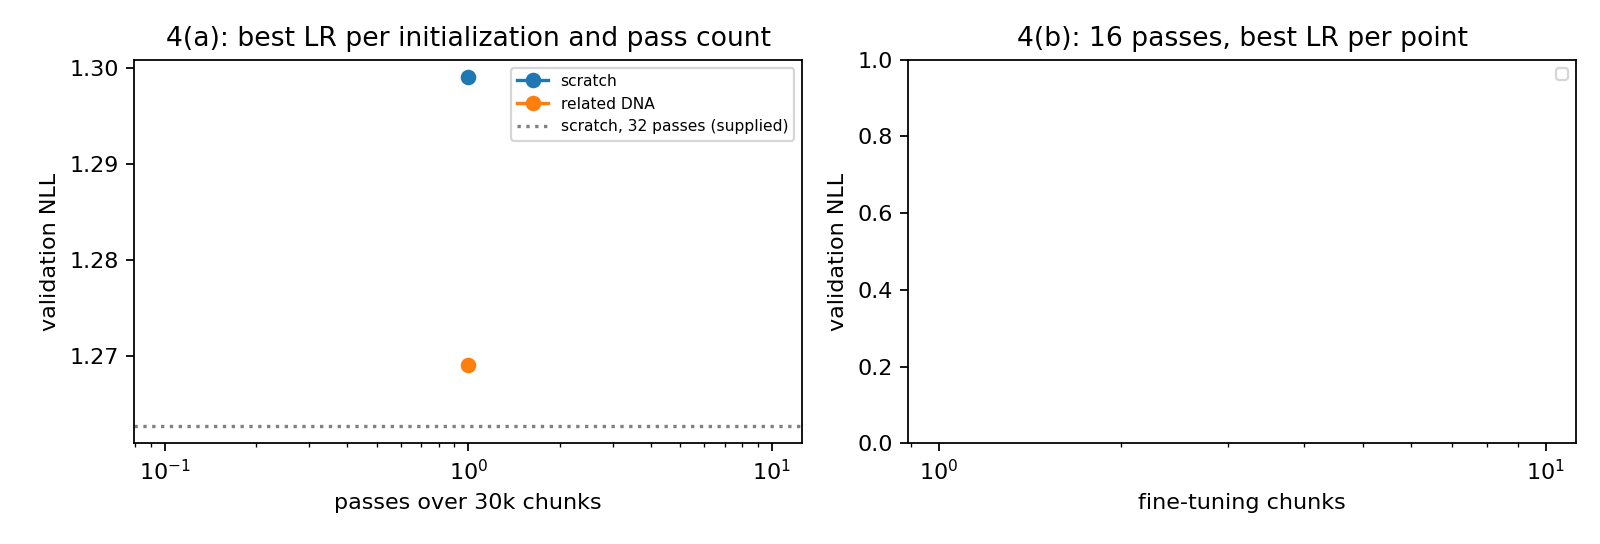
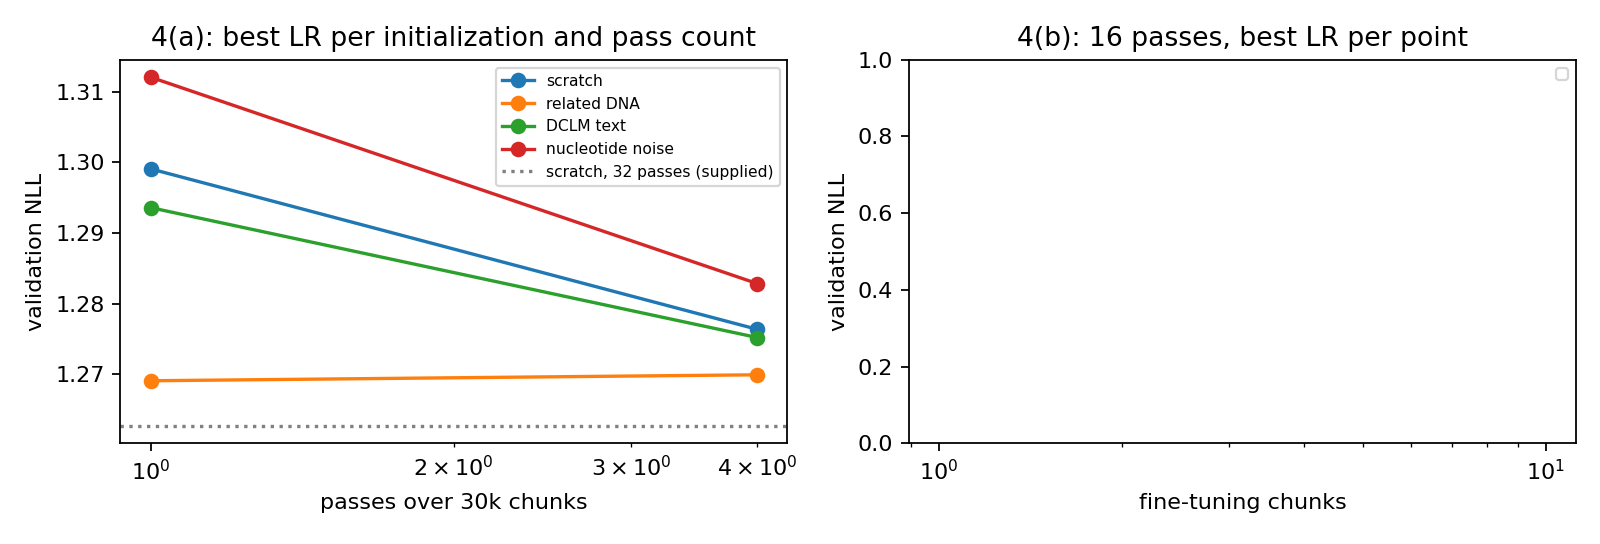
A6: Hyperball and P4(a) findings from first finished runs

diff --git a/experiments/a6_generalization/latex/p4_text_a.tex b/experiments/a6_generalization/latex/p4_text_a.tex
@@ -1,1 +1,11 @@
-% written by hand
+\subsection*{Part (a). Initialization against training length}
+
+\lead{Setup.} Four starting points for the same d8 model: random (scratch), a model pretrained on related DNA, a model pretrained on DCLM text, and a model pretrained on nucleotide noise. Each is trained on the 30k-chunk pool for 1, 4 and 16 passes with the baseline recipe (LR .003, WD 3.2, warmup + linear decay to zero at the end of the run), plus lower LRs (.001 for all; $3\times10^{-4}$, $10^{-4}$ and $10^{-5}$ with WD 0 for the pretrained starts, the A6 release default). Table~\ref{tab:p4a} reports the best LR per cell.
+
+\lead{Findings.}
+\begin{itemize}
+\item Pretraining on related DNA is worth most when data passes are scarce: after one pass it reaches 1.269, against 1.299 from scratch, 1.294 from DCLM and 1.312 from noise. One pass from the related start already matches the supplied 32-pass baseline to within 0.007.
+\item The gap closes fast. After four passes scratch is at 1.276 and related at 1.270; DCLM (1.275) is indistinguishable from scratch and noise (1.283) is still behind.
+\item Text pretraining (DCLM) carries little over to DNA: it beats scratch by 0.005 at one pass and by nothing at four. Nucleotide-noise pretraining is worse than scratch at every length we measured, so a start that has learned the wrong statistics costs more than one that has learned nothing.
+\item The related start does not improve from one to four passes (1.269 to 1.270): with a strong initialization the model is already near its data-limited floor and extra epochs mostly re-fit the same 30k chunks.
+\end{itemize}

diff --git a/experiments/a6_generalization/latex/p4.tex b/experiments/a6_generalization/latex/p4.tex
@@ -2,10 +2,10 @@
 \begin{figure}[H]\centering\includegraphics[width=.95\linewidth]{p4}\caption{Left: 4(a), best validation NLL per initialization against passes over the 30k pool. Right: 4(b), 16 passes against fine-tuning pool size, log axis.}\label{fig:p4}\end{figure}
 \begin{table}[H]\centering\small\caption{Problem 4(a): best validation NLL per initialization and pass count on 30k chunks; parentheses give the selected LR (and WD 0 where used). LRs tried: .003/WD 3.2 and .001/WD 3.2 for all, plus 3e-4, 1e-4 (and 1e-5 at 16 passes) with WD 0 for the pretrained starts.}\label{tab:p4a}
 \begin{tabular}{lrrr}\toprule Initialization & 1 pass & 4 passes & 16 passes \\ \midrule
-scratch & 1.2991 (0.003) & -- & -- \\
-related DNA & 1.2691 (0.003) & -- & -- \\
-DCLM text & -- & -- & -- \\
-nucleotide noise & -- & -- & -- \\
+scratch & 1.2991 (0.003) & 1.2764 (0.003) & -- \\
+related DNA & 1.2691 (0.003) & 1.2699 (0.003) & -- \\
+DCLM text & 1.2936 (0.003) & 1.2752 (0.003) & -- \\
+nucleotide noise & 1.3121 (0.003) & 1.2829 (0.003) & -- \\
 \bottomrule\end{tabular}\end{table}
 \input{p4_text_b}
 \begin{table}[H]\centering\small\caption{Problem 4(b): 16 passes, best LR per point, with the power-law fit $L(n)=L_\infty+An^{-\alpha}$ where three or more points exist.}\label{tab:p4b}

diff --git a/experiments/a6_generalization/latex/runs_table.tex b/experiments/a6_generalization/latex/runs_table.tex
@@ -1,8 +1,16 @@
 \small Names encode the recipe: \texttt{ft-<init>-n<pool>k-p<passes>-lr<LR>[-wd<WD>][-adaptation<variant>]} for fine-tuning; everything else is a 32-pass scratch run of d8 at WD 3.2 unless the name says otherwise. All seeds are 42 (model and data order) unless named.
 
 \begin{longtable}{lrl}\toprule Run & $L$ & state \\ \midrule
-\texttt{ft-dclm-n30k-p1-lr0.003} & -- & running (0.7 passes, 1.3003) \\
-\texttt{ft-noise-n30k-p1-lr0.003} & -- & running (0.7 passes, 1.3254) \\
+\texttt{dropout0.15} & -- & running (8.0 passes, 1.2927) \\
+\texttt{ft-dclm-n30k-p1-lr0.003} & 1.2936 & finished \\
+\texttt{ft-dclm-n30k-p4-lr0.003} & 1.2752 & finished \\
+\texttt{ft-noise-n30k-p1-lr0.003} & 1.3121 & finished \\
+\texttt{ft-noise-n30k-p4-lr0.003} & 1.2829 & finished \\
 \texttt{ft-related-n30k-p1-lr0.003} & 1.2691 & finished \\
+\texttt{ft-related-n30k-p4-lr0.003} & 1.2699 & finished \\
 \texttt{ft-scratch-n30k-p1-lr0.003} & 1.2991 & finished \\
+\texttt{ft-scratch-n30k-p4-lr0.003} & 1.2764 & finished \\
+\texttt{hyperball-lr0.001} & 1.4405 & finished \\
+\texttt{hyperball-lr0.003} & 1.5820 & finished \\
+\texttt{hyperball-lr0.01} & -- & running (10.0 passes, 1.2691) \\
 \bottomrule\end{longtable}

diff --git a/experiments/a6_generalization/latex/p2_hyperball_text.tex b/experiments/a6_generalization/latex/p2_hyperball_text.tex
@@ -1,1 +1,6 @@
-% written by hand
+\lead{Hyperball needs a large LR and still overfits.} Hyperball projects every Linear weight back to its initial Frobenius norm after each Adam step and uses WD 0, so the norm cannot grow and the only free knob is how fast the direction turns. On this 32-pass DNA task it behaves very differently from AdamW with WD 3.2:
+\begin{itemize}
+\item At LR .001 and .003 the validation NLL falls to about 1.279 by pass 6 and then climbs steadily to 1.44 and 1.58 by pass 32 (the LR .003 run, which fits faster, ends worse), the same late-epoch failure as AdamW at WD .1 (1.4057).
+\item The higher LR .01 is tracking the same curve (1.269 at pass 10). Fixing the weight norm removes the growth of the weights but not the ability to fit 30k sequences in 32 passes, so it is not a substitute for weight decay when the data are repeated this often.
+\item The best early-stopped Hyperball value (about 1.27 at 6 to 10 passes) is within 0.01 of the AdamW baseline, which says the architecture and data, not the optimizer, set the floor; the optimizer's job here is to stop the model from leaving it.
+\end{itemize}

diff --git a/experiments/a6_generalization/latex/p2_hyperball.tex b/experiments/a6_generalization/latex/p2_hyperball.tex
@@ -3,8 +3,8 @@
 \begin{tabular}{llrr}\toprule Optimizer & LR & $L$ & $\Delta L$ vs WD 3.2 \\ \midrule
 AdamW WD .1 (supplied) & -- & 1.4057 & +0.1430 \\
 AdamW WD 3.2 (supplied) & -- & 1.2627 & 0 \\
-Hyperball WD 0 & 0.001 & -- & -- \\
-Hyperball WD 0 & 0.003 & -- & -- \\
+Hyperball WD 0 & 0.001 & 1.4405 & +0.1778 \\
+Hyperball WD 0 & 0.003 & 1.5820 & +0.3193 \\
 Hyperball WD 0 & 0.01 & -- & -- \\
 \bottomrule\end{tabular}\end{table}
 \input{p2_hyperball_text}

diff --git a/experiments/a6_generalization/latex/ref_table.tex b/experiments/a6_generalization/latex/ref_table.tex
@@ -4,7 +4,7 @@ Dense d8, 32 passes (supplied) & 1.2627 \\
 Supplied suite best, d9 & 1.2594 \\
 5-member ensemble (supplied) & 1.2543 \\
 AdamW WD .1, 32 passes (supplied) & 1.4057 \\
-Hyperball best & -- \\
+Hyperball best & 1.4405 \\
 Dropout .15 & -- \\
 SAM & -- \\
 MoE LR .003 & -- \\
